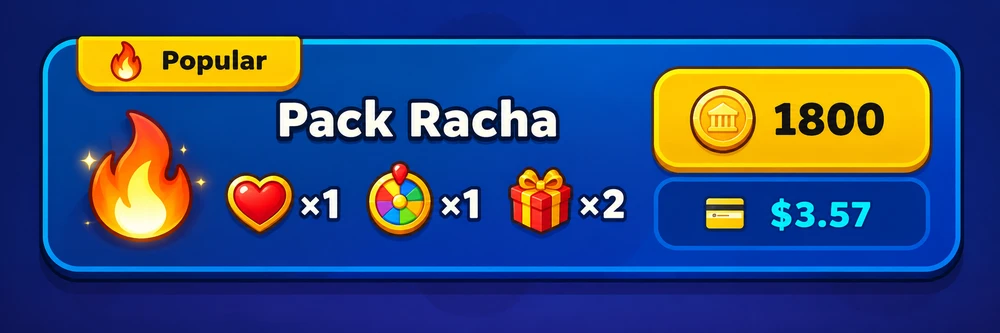
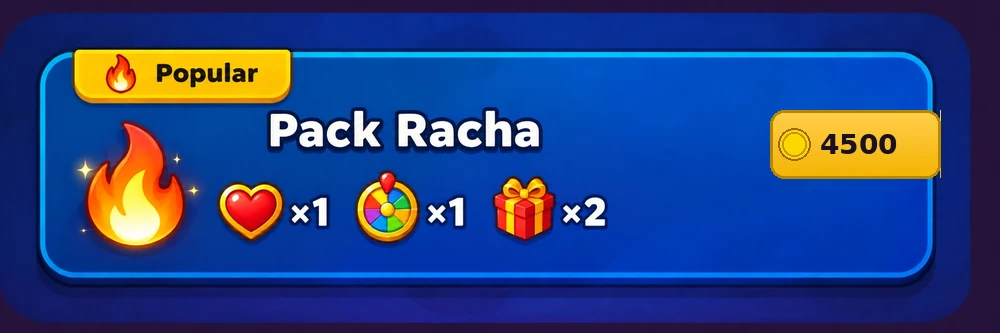
Actualizar imagen del Pack Racha con precio nuevo
Claude-Session: https://claude.ai/code/session_016Hpyg3vebFKwHSnTQ2rALx

diff --git a/sw.js b/sw.js
@@ -1,4 +1,4 @@
-const CACHE_NAME = "gya-cache-v8";
+const CACHE_NAME = "gya-cache-v9";
 const APP_SHELL = ["./", "./index.html", "./manifest.json", "./icono-192.png", "./icono-512.png", "./assets/logo.webp"];
 
 self.addEventListener("install", (e) => {
